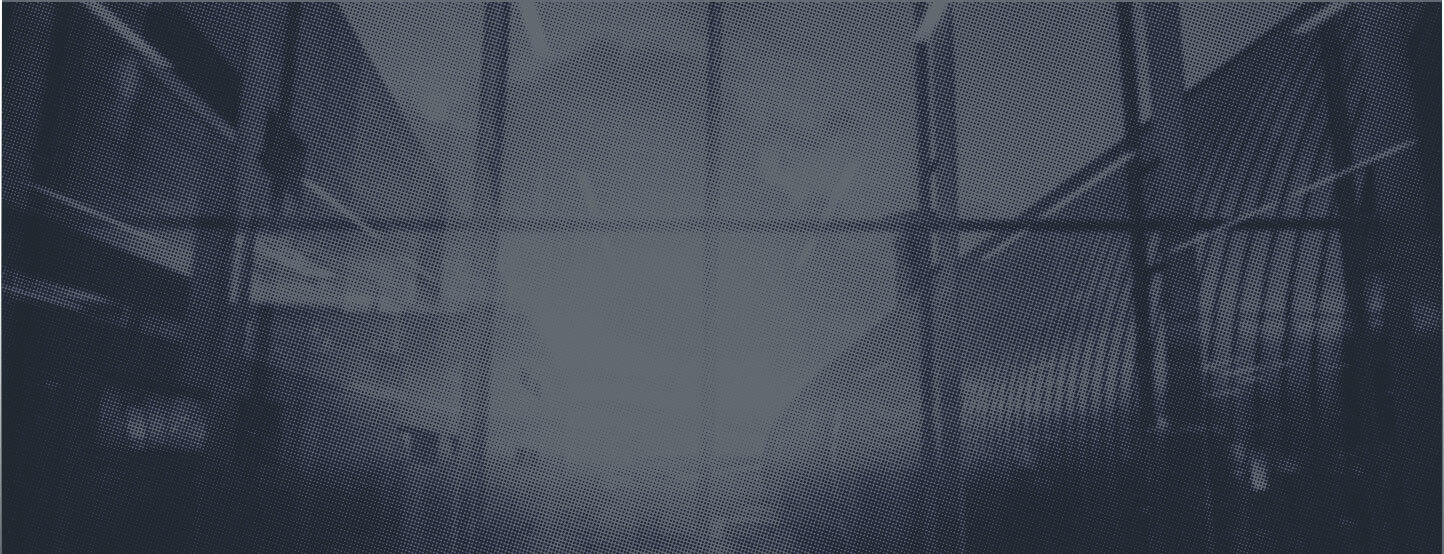
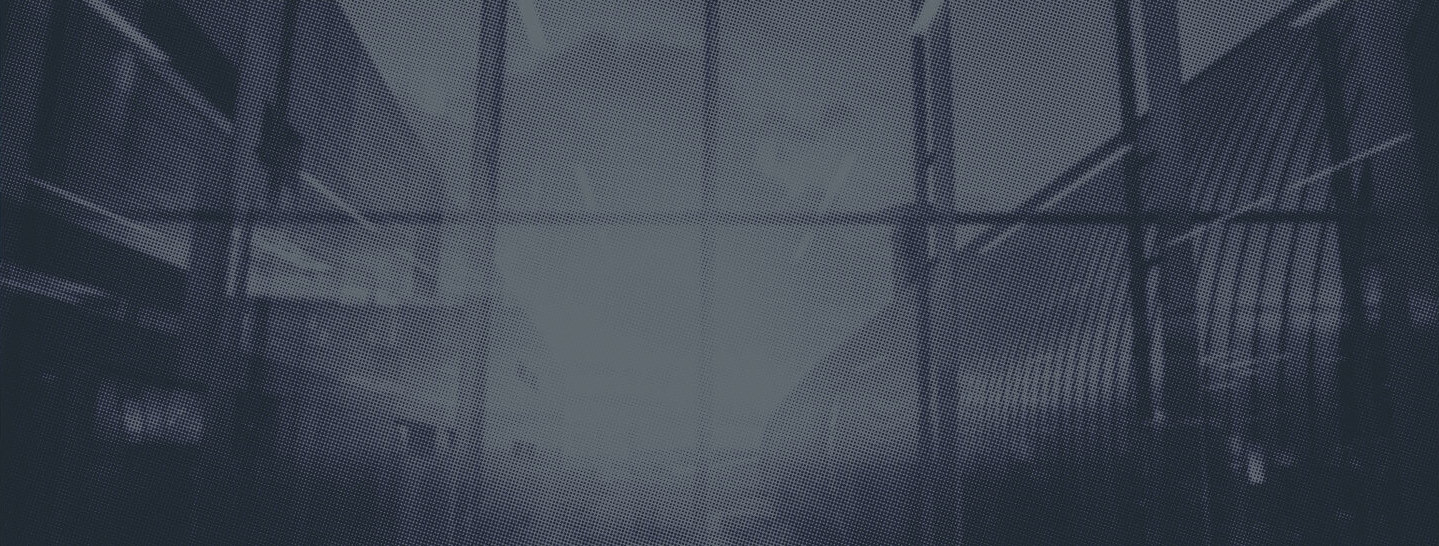
layout fitting mobile phone

Changed region(s): [[0.0, 0.0, 1.0, 1.0]]

diff --git a/src/components/App.vue b/src/components/App.vue
@@ -2,12 +2,12 @@
     <div class="content">
         <el-menu class="header" default-active="/homepage/login" theme="dark" mode="horizontal" router>
             <el-row>
-                <el-col :lg="{span:6, offset:2}">
+                <el-col :lg="{span:6, offset:2}" :xs="{span:12, offset:0}">
                     <el-menu-item index="/homepage/login">
                         <span class="logo">快捷购物</span>商户中心
                     </el-menu-item>
                 </el-col>
-                <el-col v-if="!loggedIn" :lg="{span:4, offset:12}">
+                <el-col class="switchBtn" v-if="!loggedIn" :lg="{span:4, offset:10}" :xs="{span:12, offset:0}">
                     <el-menu-item index="/homepage/login" v-if="homepageLogin" >
                         <el-button @click="switchHomepageLogin" type="warning">切换到注册</el-button>
                     </el-menu-item>
@@ -15,7 +15,7 @@
                         <el-button @click="switchHomepageLogin" type="success">切换到登录</el-button>
                     </el-menu-item>
                 </el-col>
-                <el-col v-else :lg="{span:8, offset:8}">
+                <el-col class="menuBar" v-else :lg="{span:8, offset:6}">
                     <el-menu-item index="/goods">商品录入</el-menu-item>
                     <el-menu-item index="/info">商家信息 ({{ $store.state.info.id }})</el-menu-item>
                     <el-menu-item index="" @click="logOut">注销</el-menu-item>
@@ -76,11 +76,27 @@
 
 <style lang="scss" scoped>
     .content {
-        background-image: url(../image/hip-square.png);
+        background-image: url(../image/bg.png);
         .header {
             border-width: o;
             .logo {
                 font-size: 2em;
+            }
+            .switchBtn {
+                display: flex;
+                justify-content: flex-end;
+            }
+            @media screen and (min-width: 1200px) {
+                .menuBar {
+                    display: flex;
+                    justify-content: flex-end;
+                }
+            }
+            @media screen and (max-width: 768px) {
+                .menuBar {
+                    display: flex;
+                    justify-content: space-around;
+                }
             }
         }
         .body {

diff --git a/src/components/Homepage.vue b/src/components/Homepage.vue
@@ -30,6 +30,7 @@
                     </el-col>
                 </el-row>
             </el-col>
+
             <el-col :lg="{span:9}">
                 <el-row>
                     <el-col :lg="{span:18, offset:0}">
@@ -52,6 +53,7 @@
                                 </el-form-item>
                             </el-form>
                         </el-card>
+
                         <el-card class="panel registerPanel" v-else>
                             <el-form class="form"
                                      ref="registerForm"

diff --git a/index.html b/index.html
@@ -3,6 +3,7 @@
 <head>
     <meta charset="UTF-8">
     <title>快购宝商家管理系统</title>
+    <meta name="viewport" content="width=device-width, initial-scale=1.0">
 
     <link rel="shortcut icon" href="/dist/favicon.ico">
 </head>
